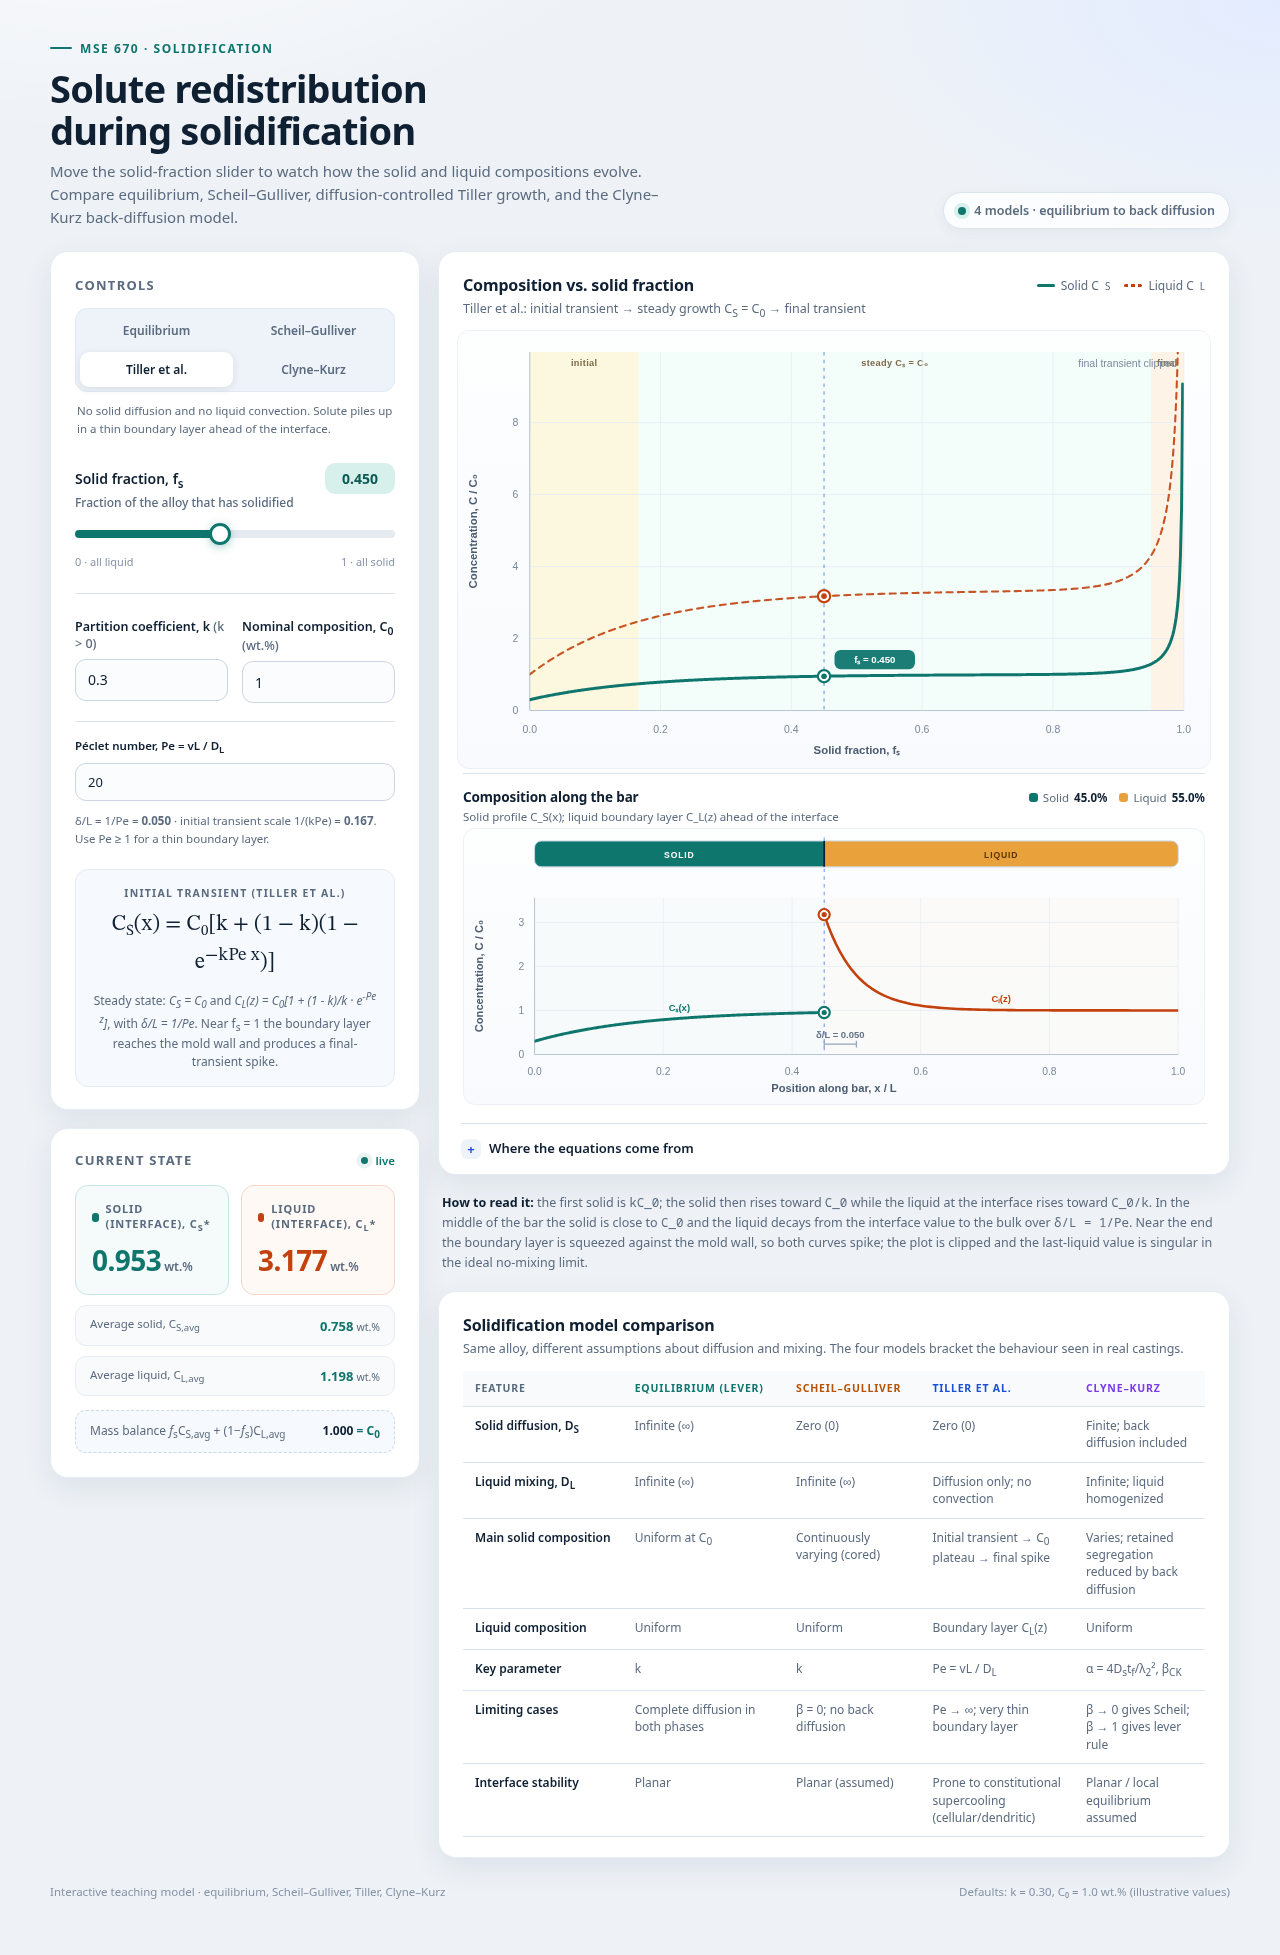
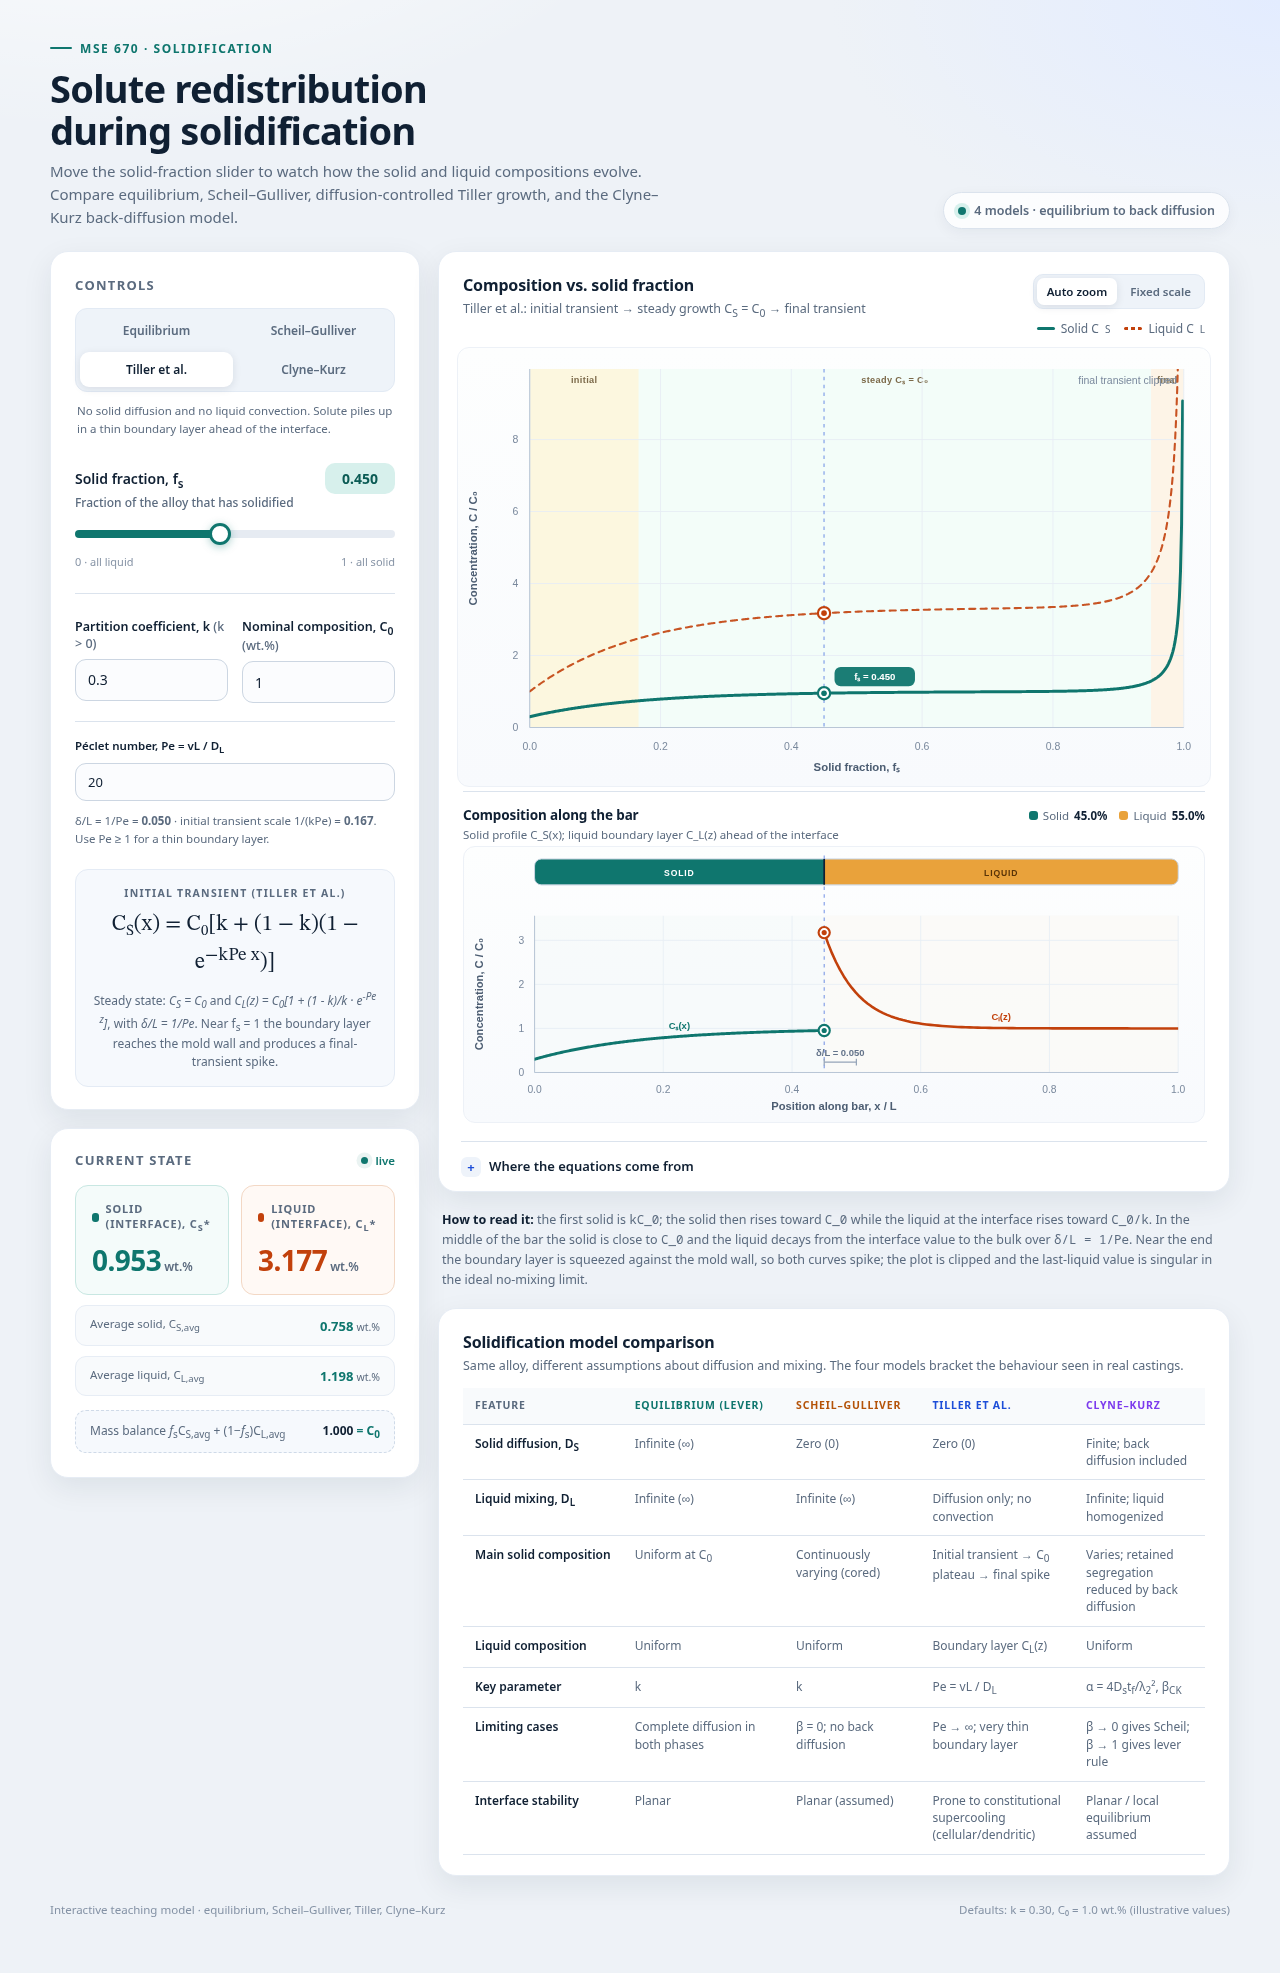
Add auto-zoom and fixed-scale graph views

diff --git a/index.html b/index.html
@@ -587,6 +587,49 @@
     font-size: 12.5px;
   }
 
+  .graph-tools {
+    display: flex;
+    flex-direction: column;
+    align-items: flex-end;
+    gap: 8px;
+  }
+
+  .view-switch {
+    display: inline-flex;
+    gap: 3px;
+    padding: 3px;
+    border: 1px solid #e2eaf4;
+    border-radius: 10px;
+    background: #eef3f9;
+  }
+
+  .view-btn {
+    appearance: none;
+    border: 0;
+    border-radius: 7px;
+    padding: 6px 10px;
+    background: transparent;
+    color: var(--muted);
+    font: inherit;
+    font-size: 11.5px;
+    font-weight: 650;
+    cursor: pointer;
+    transition: background 0.15s ease, color 0.15s ease, box-shadow 0.15s ease;
+  }
+
+  .view-btn:hover { color: var(--ink); }
+
+  .view-btn.active {
+    background: #ffffff;
+    color: var(--ink);
+    box-shadow: 0 2px 8px rgba(16, 32, 51, 0.1);
+  }
+
+  .view-btn:focus-visible {
+    outline: none;
+    box-shadow: 0 0 0 3px rgba(29, 78, 216, 0.18);
+  }
+
   .legend {
     display: flex;
     gap: 14px;
@@ -864,6 +907,7 @@
     .spatial-head { flex-direction: column; }
     .bar-legend { width: 100%; }
     .graph-top { flex-direction: column; }
+    .graph-tools { align-items: flex-start; width: 100%; }
     .chip { display: none; }
   }
 
@@ -1031,9 +1075,15 @@
             <h3>Composition vs. solid fraction</h3>
             <p id="graphSubtitle">Normalized concentration <em>C / C<sub>0</sub></em> as freezing progresses</p>
           </div>
-          <div class="legend" aria-hidden="true">
-            <span><i class="key"></i> Solid C<sub>S</sub></span>
-            <span><i class="key dashed"></i> Liquid C<sub>L</sub></span>
+          <div class="graph-tools">
+            <div class="view-switch" role="group" aria-label="Graph view">
+              <button type="button" class="view-btn active" data-view="auto" aria-pressed="true">Auto zoom</button>
+              <button type="button" class="view-btn" data-view="fixed" aria-pressed="false">Fixed scale</button>
+            </div>
+            <div class="legend" aria-hidden="true">
+              <span><i class="key"></i> Solid C<sub>S</sub></span>
+              <span><i class="key dashed"></i> Liquid C<sub>L</sub></span>
+            </div>
           </div>
         </div>
 
@@ -1189,6 +1239,7 @@
     k: 0.3,
     c0: 1.0,
     model: "equilibrium",
+    view: "auto",
     pe: 20,
     ds: 1e-13,
     tf: 100,
@@ -1239,6 +1290,7 @@
   };
 
   const modelButtons = Array.from(document.querySelectorAll(".model-btn"));
+  const viewButtons = Array.from(document.querySelectorAll(".view-btn"));
 
   // ── Model ──────────────────────────────────────────────────
   // Equilibrium (lever rule):
@@ -1469,7 +1521,10 @@
 
   // Along-bar y-axis limit. It follows the current state so that the Tiller
   // boundary layer stays readable when the interface is only part-way along.
+  // In fixed-scale mode it uses the model-wide limit, so the axes and grid
+  // stay identical while the f_s slider moves.
   function spatialYMaxNorm() {
+    if (state.view === "fixed") return yMaxNorm();
     const values = [
       1,
       state.k,
@@ -2322,6 +2377,19 @@
       state.model = button.dataset.model;
       modelButtons.forEach((btn) => {
         const active = btn.dataset.model === state.model;
+        btn.classList.toggle("active", active);
+        btn.setAttribute("aria-pressed", String(active));
+      });
+      update();
+    });
+  });
+
+  viewButtons.forEach((button) => {
+    button.addEventListener("click", () => {
+      if (button.dataset.view === state.view) return;
+      state.view = button.dataset.view;
+      viewButtons.forEach((btn) => {
+        const active = btn.dataset.view === state.view;
         btn.classList.toggle("active", active);
         btn.setAttribute("aria-pressed", String(active));
       });

diff --git a/fs_slider.m b/fs_slider.m
@@ -68,9 +68,9 @@ head.FontSize = 18; head.FontWeight = 'bold';
 head.FontColor = [0.06 0.13 0.20];
 
 % Control panel
-ctrl = uigridlayout(g,[8 2]);
+ctrl = uigridlayout(g,[9 2]);
 ctrl.Layout.Row = 2; ctrl.Layout.Column = 1;
-ctrl.RowHeight = {32,22,42,30,30,0,66,50};
+ctrl.RowHeight = {32,22,42,30,30,0,28,66,40};
 ctrl.ColumnWidth = {'1x',120};
 ctrl.Padding = [0 0 0 0];
 ctrl.RowSpacing = 8;
@@ -164,8 +164,16 @@ wtCheck = uicheckbox(pg,'Text','Won-Thomas: alpha+ = 2(alpha + alpha_C)', ...
     'Value',false);
 wtCheck.Layout.Row = 6; wtCheck.Layout.Column = [1 2];
 
+lblView = uilabel(ctrl);
+lblView.Layout.Row = 7; lblView.Layout.Column = 1;
+lblView.Text = 'Graph view';
+
+viewDrop = uidropdown(ctrl, ...
+    'Items',{'Auto zoom','Fixed scale'},'Value','Auto zoom');
+viewDrop.Layout.Row = 7; viewDrop.Layout.Column = 2;
+
 eq = uilabel(ctrl);
-eq.Layout.Row = 7; eq.Layout.Column = [1 2];
+eq.Layout.Row = 8; eq.Layout.Column = [1 2];
 eq.Text = {'C_S = k C_0 / [1 - (1-k) f_s]', ...
            'C_L =     C_0 / [1 - (1-k) f_s]'};
 eq.FontName = 'Consolas';
@@ -175,7 +183,7 @@ eq.HorizontalAlignment = 'center';
 eq.BackgroundColor = [0.96 0.97 0.99];
 
 note = uilabel(ctrl);
-note.Layout.Row = 8; note.Layout.Column = [1 2];
+note.Layout.Row = 9; note.Layout.Column = [1 2];
 note.Text = 'Complete diffusion in solid and liquid (equilibrium limit).';
 note.FontSize = 11;
 note.FontColor = [0.35 0.42 0.50];
@@ -301,6 +309,7 @@ tfField.ValueChangedFcn   = @(src,event) updateDisplay();
 lamField.ValueChangedFcn  = @(src,event) updateDisplay();
 aCField.ValueChangedFcn   = @(src,event) updateDisplay();
 wtCheck.ValueChangedFcn   = @(src,event) updateDisplay();
+viewDrop.ValueChangedFcn  = @(src,event) updateDisplay();
 
     function tf = isScheil()
         tf = (modelDrop.ValueIndex == 2);
@@ -314,6 +323,10 @@ wtCheck.ValueChangedFcn   = @(src,event) updateDisplay();
         tf = (modelDrop.ValueIndex == 4);
     end
 
+    function tf = isFixedView()
+        tf = strcmp(viewDrop.Value,'Fixed scale');
+    end
+
     function onModelChanged()
         updatePanelLayout();
         updateDisplay();
@@ -323,20 +336,20 @@ wtCheck.ValueChangedFcn   = @(src,event) updateDisplay();
         if isTiller()
             pg.Visible = 'on';
             pg.RowHeight = {30,0,0,0,0,0};
-            ctrl.RowHeight = {32,22,42,30,30,52,66,50};
+            ctrl.RowHeight = {32,22,42,30,30,52,28,66,40};
             set([peLbl peField],'Visible','on');
             set([dsLbl dsField tfLbl tfField lamLbl lamField ...
                  aCLbl aCField wtCheck],'Visible','off');
         elseif isCK()
             pg.Visible = 'on';
             pg.RowHeight = {0,30,30,30,30,26};
-            ctrl.RowHeight = {32,22,42,30,30,170,66,50};
+            ctrl.RowHeight = {32,22,42,30,30,170,28,66,40};
             set([peLbl peField],'Visible','off');
             set([dsLbl dsField tfLbl tfField lamLbl lamField ...
                  aCLbl aCField wtCheck],'Visible','on');
         else
             pg.Visible = 'off';
-            ctrl.RowHeight = {32,22,42,30,30,0,66,50};
+            ctrl.RowHeight = {32,22,42,30,30,0,28,66,40};
         end
     end
 
@@ -613,6 +626,9 @@ wtCheck.ValueChangedFcn   = @(src,event) updateDisplay();
 
         % ── Spatial profile ──
         yTopS = yTopSpatial(csN,clN,avgN);
+        if isFixedView()
+            yTopS = yTopMain();
+        end
         set(hRegionS,'XData',[0 fsNow fsNow 0], ...
             'YData',[0 0 yTopS yTopS]);
         set(hRegionL,'XData',[fsNow 1 1 fsNow], ...

diff --git a/README.md b/README.md
@@ -24,6 +24,8 @@ Move the **solid fraction `f_s`** slider from 0 to 1 and watch:
 - the **solid–liquid connector** at the interface (green to orange),
 - the mass-balance check `f_s C_S,avg + (1 − f_s) C_L,avg = C_0`.
 
+Use the **Graph view** switch to choose between `Auto zoom` (the along-bar chart rescales for readability) and `Fixed scale` (the axes, grid, and background stay put and only the plotted data changes as the slider moves).
+
 ## Models
 
 Pick a model with the 2×2 buttons above the controls. `k` can be any positive number — it is **not** limited to `0 < k ≤ 1`.
@@ -193,6 +195,7 @@ outW = won_thomas_model(0.3, 1.0, 1e-13, 100, 20e-6, 0.9, 0.1);
 | Control | Meaning |
 |---|---|
 | Model | Equilibrium, Scheil–Gulliver, Tiller et al., or Clyne–Kurz. |
+| Graph view | `Auto zoom` rescales the along-bar chart as `f_s` changes; `Fixed scale` locks the axes, grid, and background so only the plotted data moves with the slider. |
 | `f_s` slider | Solid fraction, from 0 (all liquid) to 1 (all solid). |
 | `k` | Partition coefficient, `k = C_S*/C_L*`. Any value `0.01 ≤ k ≤ 100`; not restricted to `k ≤ 1`. Default 0.30 (illustrative). |
 | `C_0` | Nominal solute concentration in wt.%. Default 1.0 wt.% (illustrative). |
